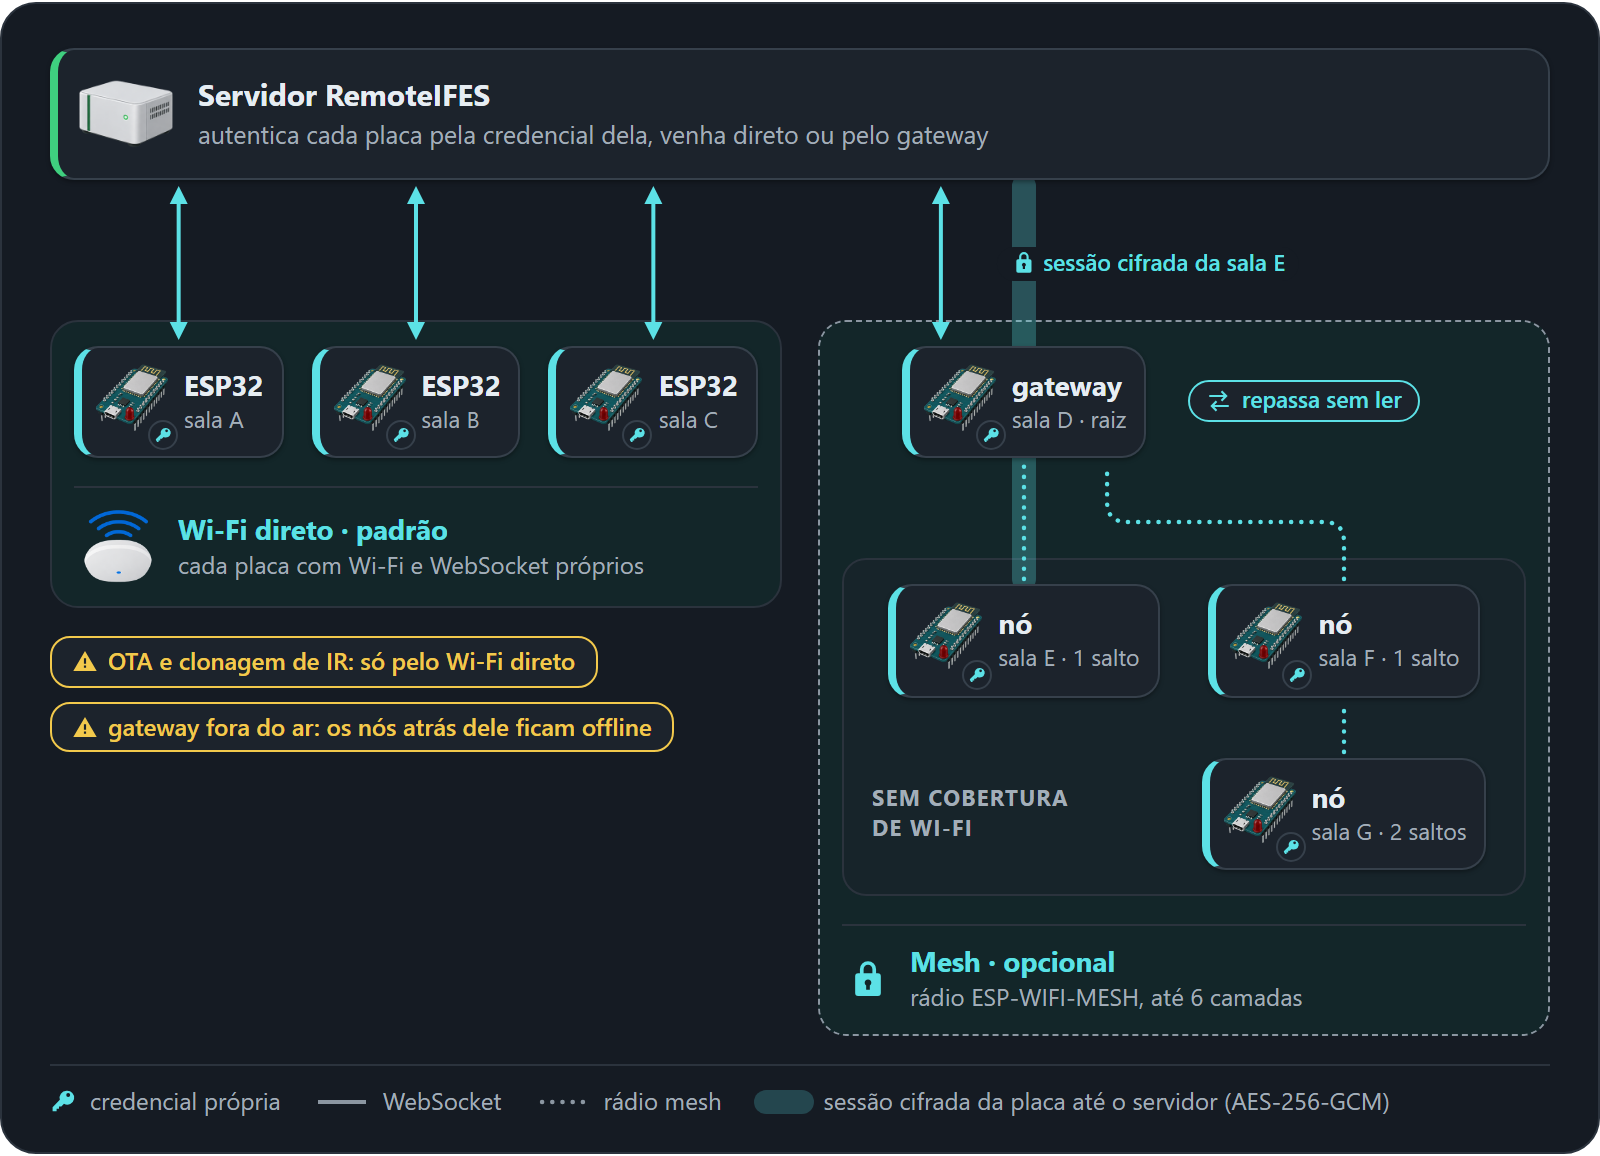
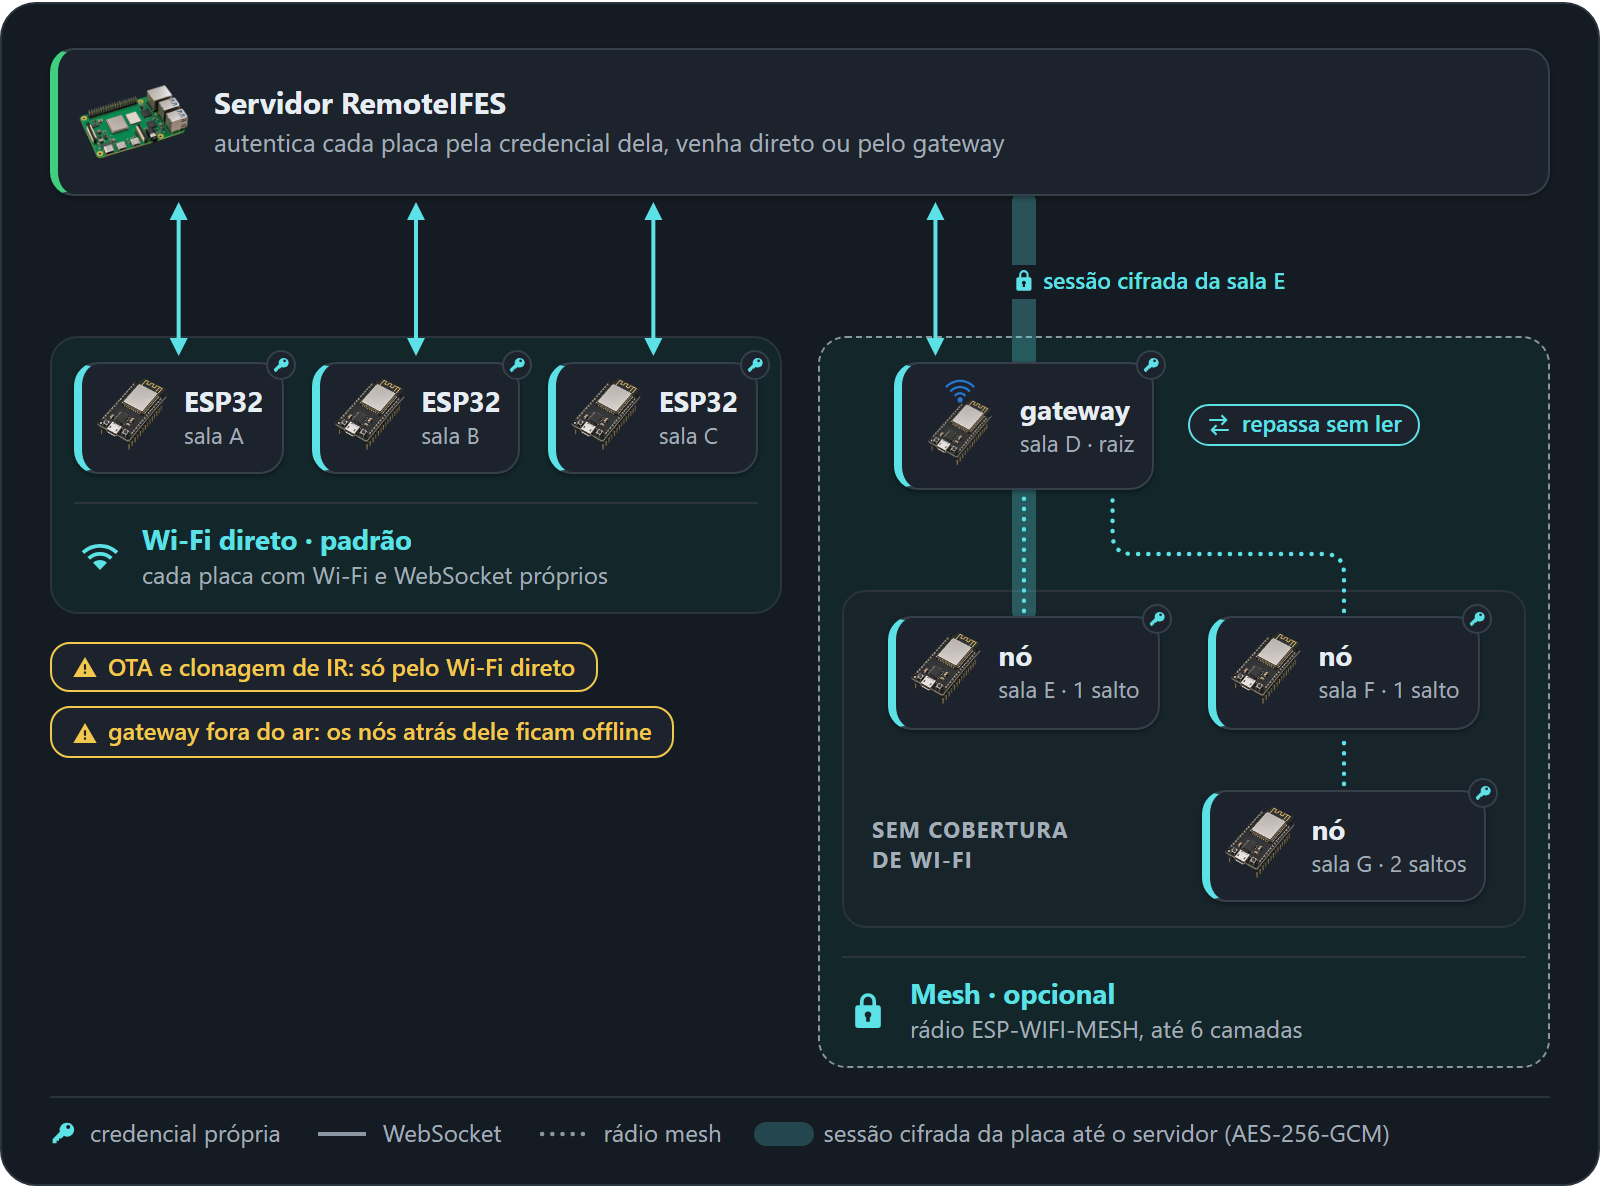
Use recognizable hardware in the README figures
Replace the generic server box with a simplified Raspberry Pi, the
ESP32 module with a simplified ESP32 development board, and the
ceiling access point with the same board carrying a separate Wi-Fi
symbol above it, used for the mesh gateway (root). Simplify the
Operations Console module to one window with one wrench.

The gateway cards use the new root module, the direct Wi-Fi caption
uses a vector Wi-Fi glyph, and the credential badges move to the card
corners so no board illustration carries extra symbols. The browser,
phone, database and air-conditioner modules are unchanged.

diff --git a/docs/readme-assets/src/device-networking.html b/docs/readme-assets/src/device-networking.html
@@ -31,13 +31,16 @@
   .placa { padding: 5px 9px 5px 5px; gap: 6px; }
   .placa .titulo { font-size: 14px; }
   .placa .sub { font-size: 11.5px; white-space: nowrap; }
-  .placa .quadro { position: relative; flex: 0 0 auto; }
+  /* The credential badge sits on the card corner, outside the board illustration. */
+  .placa .quadro { position: static; flex: 0 0 auto; }
   .placa .quadro .ic {
-    position: absolute; right: -3px; bottom: -2px;
+    position: absolute; right: -7px; top: -7px;
     width: 15px; height: 15px; padding: 2px;
     color: var(--petroleo); background: var(--cartao);
     border: 1px solid var(--cartao-borda); border-radius: 50%;
   }
+  .modulo.raiz { width: 48px; height: 48px; }
+  .modulo.pi { width: 60px; height: 60px; }
   .linha-gateway { display: grid; grid-template-columns: 1fr 1fr; justify-items: center; align-items: center; padding: 0 11px; }
   #repassa { justify-self: start; margin-left: 2px; }
   .sem-wifi {
@@ -64,7 +67,7 @@
 <body>
 <div id="tela">
   <div class="cartao tom-verde" id="servidor">
-    <img class="modulo" src="../modules/server.png" alt="">
+    <img class="modulo pi" src="../modules/server.png" alt="">
     <div><div class="titulo">Servidor RemoteIFES</div><div class="sub">autentica cada placa pela credencial dela, venha direto ou pelo gateway</div></div>
   </div>
 
@@ -86,7 +89,7 @@
           </div>
         </div>
         <div class="legenda-painel">
-          <img class="modulo p" src="../modules/wifi-ap.png" alt="">
+          <svg class="ic" style="width:22px;height:22px;color:var(--petroleo)"><use href="#x-wifi"/></svg>
           <div><div class="titulo">Wi-Fi direto · padrão</div><div class="sub">cada placa com Wi-Fi e WebSocket próprios</div></div>
         </div>
       </section>
@@ -100,7 +103,7 @@
     <section class="painel opcional tom-petroleo" id="malha">
       <div class="linha-gateway">
         <div class="cartao tom-petroleo placa" id="gateway">
-          <span class="quadro"><img class="modulo p" src="../modules/esp32.png" alt=""><svg class="ic"><use href="#i-chave"/></svg></span>
+          <span class="quadro"><img class="modulo p raiz" src="../modules/wifi-ap.png" alt=""><svg class="ic"><use href="#i-chave"/></svg></span>
           <div><div class="titulo">gateway</div><div class="sub">sala D · raiz</div></div>
         </div>
         <span class="pilula tom-petroleo" id="repassa"><svg class="ic p"><use href="#x-repassa"/></svg>repassa sem ler</span>

diff --git a/docs/readme-assets/src/architecture-overview.html b/docs/readme-assets/src/architecture-overview.html
@@ -21,9 +21,11 @@
   #salas { grid-column: 5; margin-top: 52px; gap: 8px; }
   .subcabecalho { font-size: 12px; font-weight: 650; color: var(--petroleo); margin: 4px 0 0 2px; }
   .linha-sala { display: flex; align-items: center; justify-content: space-between; }
-  .linha-sala .cartao { width: 118px; padding: 6px 8px 6px 6px; gap: 6px; }
+  .linha-sala .cartao { width: 124px; padding: 6px 8px 6px 6px; gap: 6px; }
+  .modulo.pi { width: 58px; height: 58px; }
+  .modulo.raiz { width: 48px; height: 48px; }
   .ac {
-    width: 54px; height: 50px; display: grid; place-items: center;
+    width: 52px; height: 50px; display: grid; place-items: center;
     border: 1.5px dashed var(--linha); border-radius: 12px;
   }
   .ac img { width: 46px; height: 46px; object-fit: contain; }
@@ -54,7 +56,7 @@
         <div><div class="titulo">Console de Operações</div><div class="sub">serviço separado · 127.0.0.1</div></div>
       </div>
       <div class="cartao tom-verde" id="servidor">
-        <img class="modulo" src="../modules/server.png" alt="">
+        <img class="modulo pi" src="../modules/server.png" alt="">
         <div><div class="titulo">Servidor RemoteIFES</div><div class="sub">Node.js · Express<br>API, WebSocket, agendador</div></div>
       </div>
       <div class="cartao tom-verde" id="sqlite">
@@ -77,7 +79,7 @@
         <div class="rotulo-grupo">Mesh · opcional</div>
         <div class="linha-sala">
           <div class="cartao tom-petroleo" id="gateway">
-            <img class="modulo p" src="../modules/esp32.png" alt="">
+            <img class="modulo p raiz" src="../modules/wifi-ap.png" alt="">
             <div><div class="titulo">ESP32</div><div class="sub papel">gateway</div></div>
           </div>
           <div class="ac" id="ac2"><img src="../modules/air-conditioner.png" alt=""></div>

diff --git a/docs/readme-assets/README.md b/docs/readme-assets/README.md
@@ -27,7 +27,13 @@ O script gera `-light.png` e `-dark.png` a 2× a largura exibida (800 px), escol
 
 ## Módulos
 
-`modules/*.png` são ilustrações de 256 px com fundo transparente: navegador, celular, servidor, banco, console, ESP32, ar-condicionado e ponto de acesso Wi-Fi. Gateway e nó mesh usam o mesmo módulo do ESP32, porque são o mesmo hardware e o mesmo firmware; o papel vem do rótulo. Um módulo novo segue o mesmo estilo: vista de três quartos, luz de cima à esquerda, paleta do app, sem texto, logotipo ou marca.
+`modules/*.png` são ilustrações de 256 px com fundo transparente, cada uma com um único objeto:
+
+- hardware real, desenhado de forma realista e simplificada: `server.png` é um Raspberry Pi, `esp32.png` é uma placa de desenvolvimento ESP32;
+- `wifi-ap.png` é o mesmo `esp32.png`, menor, com o símbolo de Wi-Fi (três arcos e um ponto, `#2a78d4`) acima da placa, fora dela. Representa o ESP32 no papel de raiz da malha, usado no cartão do gateway. Ao trocar o `esp32.png`, refaça os dois juntos;
+- conceitos, no estilo de ícone de produto: navegador, celular, banco, console e ar-condicionado.
+
+Direto, gateway e nó são o mesmo hardware e o mesmo firmware; o papel vem do rótulo e, no gateway, do símbolo de Wi-Fi. Credencial, cifra e limites ficam em selos e legendas da figura, nunca desenhados dentro do objeto. Um módulo novo mantém a vista de três quartos, a luz de cima à esquerda, a paleta do app e nenhum texto, logotipo ou marca.
 
 ## Fluxos SVG
 
